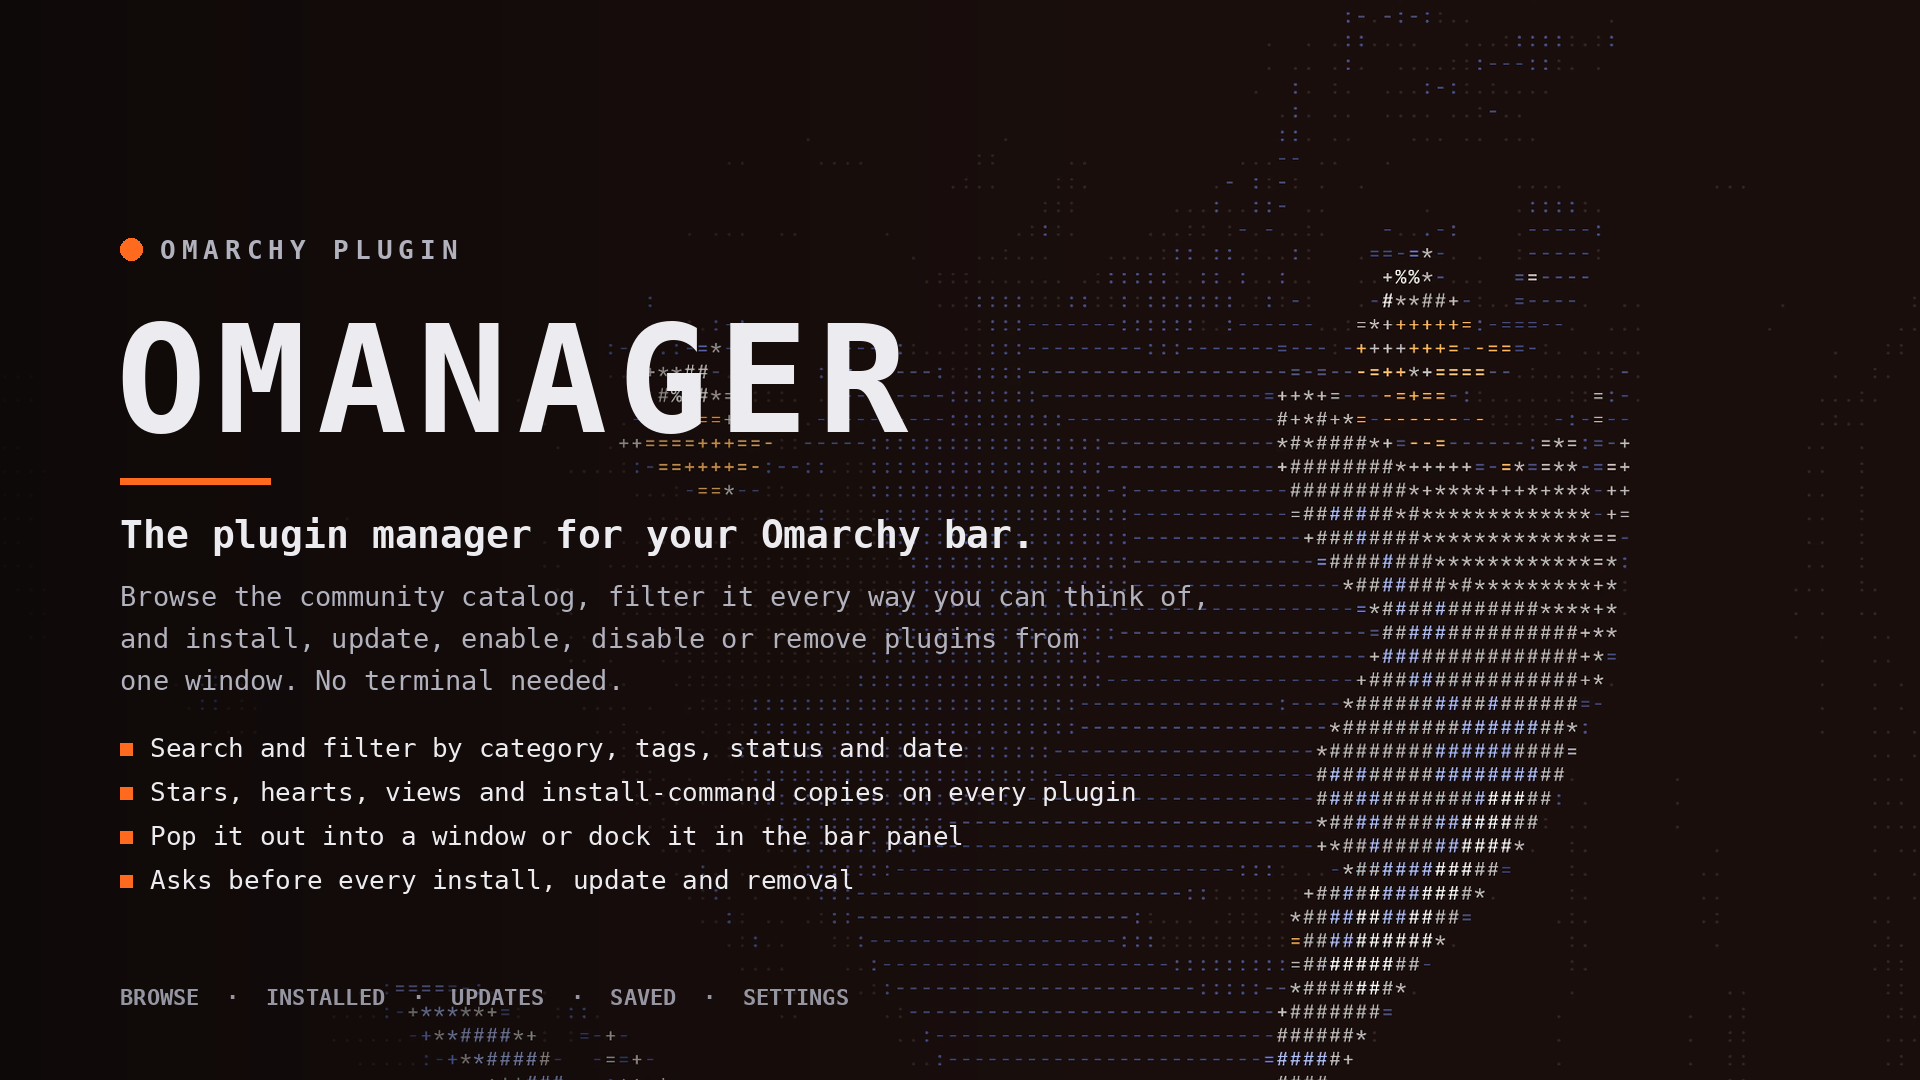
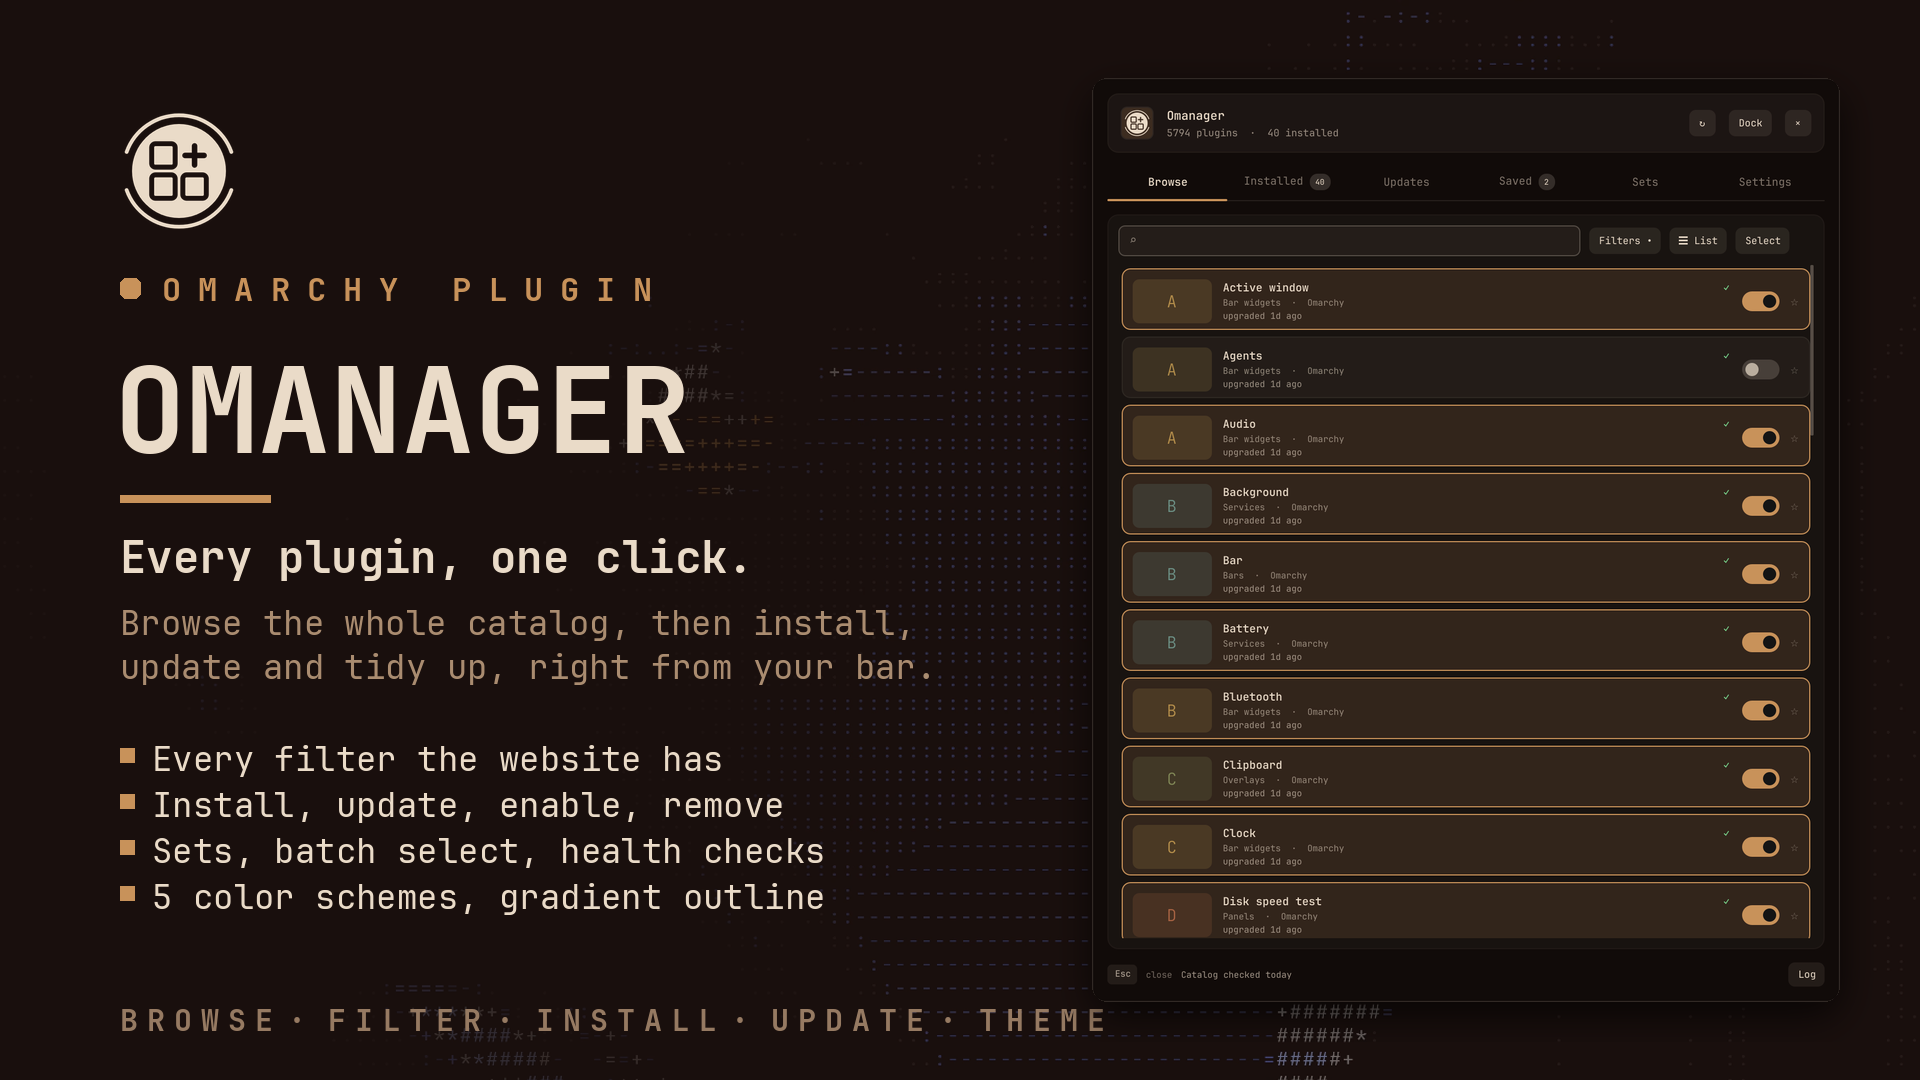
docs: rewrite the README with a new preview and screenshots

diff --git a/README.md b/README.md
@@ -1,225 +1,175 @@
-# Omanager
+<p align="center">
+  <picture>
+    <source media="(prefers-color-scheme: light)" srcset="assets/logo-dark.png">
+    <img src="assets/logo.png" alt="Omanager logo" width="112">
+  </picture>
+</p>
 
-A plugin manager for the Omarchy bar. Click the bar button and a panel opens; click it again and it closes. Browse the community catalog, filter it every way you can think of, and install, update, enable, disable, or remove plugins without touching a terminal.
+<h1 align="center">Omanager</h1>
 
-![Omanager preview](preview.png)
+<p align="center">A plugin manager on your Omarchy bar: browse the whole catalog, then install, update, enable, disable or remove plugins without opening a terminal.</p>
 
-## Features
+![Omanager](preview.png)
 
-- **Tabs**: Browse, Installed, Updates (with *Update all*), Saved, Sets, Settings.
-- **Stats**: stars, hearts, views, and install-command copies show on every card, list row, and compact row, and in the detail / stage pane.
-- **Sort**:
-  - newly uploaded
-  - **as listed** (the exact order the catalog feed returns them in — matches the website's default view)
-  - recently upgraded
-  - **new or upgraded** (whichever is most recent)
-  - most hearts
-  - stars
-  - views
-  - best install rate
-  - A to Z
-  - **newly installed** (Installed tab only: the moment each plugin landed on disk, newest first)
+Click the bar button and the manager opens; click it again and it closes. It holds the full community catalog, with the same filters as the website, the plugins you have installed and the updates waiting for them, and it can pop out into a window of its own.
 
-  The Installed tab's sort list also offers **Newly installed**, which reads each plugin directory's birth time (falling back to its modification time on filesystems that don't record one). Everything else is offered there too.
-- **Health** (Installed tab): flags installed plugins that need attention and adds a **Needs attention** status to filter the list to them:
-  - installed in a folder whose name differs from its id
-  - not a git checkout, so `omarchy plugin update` cannot touch it
-  - not in the catalog (local or unpublished)
-  - a plugin directory with no readable `manifest.json`
-  The detail pane shows the exact problem and an **Open folder** button. Updates and removals always run against the real folder name, so a plugin in a differently named folder still updates and removes correctly.
-- **Changelog**: the detail pane lists an installed plugin's recent commits (`git log`, read-only). When an update is pending, **Incoming** fetches and shows exactly what the update would bring in, so you can see the changes before you update.
-- **Right-click a plugin** for a short menu of what applies to it (update/install, enable/disable, save, open folder or repository, copy install command, details, remove).
-- **Batch select**: **Select** turns cards into checkboxes and shows an action bar to **Update / Enable / Disable / Save / Remove** everything picked at once (only the applicable ones act). Removals still ask to confirm.
-- **Plugin sets** (Sets tab): name a snapshot of what you have installed, then **Restore** it later to re-enable what is off and reinstall what is missing (using the plugin's repo, so it works on a fresh machine). Nothing already present is removed or downgraded, so restoring is always safe.
-- **Filters**:
-  - community / built-in / all
-  - category
-  - tags (several at once)
-  - verified only
-  - hide installed
-  - status (installed, not installed, has update, saved, new since your last visit)
-  - time window (week, month, 3 months, year) that looks at uploads, upgrades, or either
-
-  The **Uploaded / Upgraded / Either** chips are dimmed until a time window is chosen because they only apply to it.
-
-- **Search** across names, IDs, authors, categories, tags, and descriptions.
-- **Pop out / dock**:
-  - The header's *Pop out* button turns the manager into a real window you can move, resize, and tile.
-  - *Dock* puts it back into the bar panel.
-  - Filters, selection, and search survive the switch.
-  - The dock and the pop-out are the same panel, so they look identical.
-  - In a narrow window the filters open from a *Filters* button; from about 720 px wide the sidebar is shown.
-  - **Settings > Window > Open as** picks which one the bar button opens first.
-- **Layouts**:
-  - *List* — default: compact row cards. Installed plugins have an on/off switch.
-  - *List + stage* — wide windows only (about 720 px and up): the list on the left, a large preview with actions for the selected plugin on the right.
-  - *Cards* — 1 to 4 columns or automatic.
-  - *Compact* — a dense, table-like view with one plugin per row: name, category, author, stats, status, upload age, and install button.
-
-  Previews come from the catalog's own thumbnails and full-size images. Compact skips them entirely, so it stays fast on large catalogs.
-
-  Cycle with the header's layout button, or pick one in **Settings > Window > Layout**.
-
-- **Colors**:
-  - follow the bar theme
-  - your own accent color
-  - monochrome
-  - a different tint per category
-
-  Plus card style, spacing, roundness, text size, and window tint.
-
-- **36 settings**, grouped into:
-  - Appearance
-  - Window
-  - Browse
-  - Catalog
-  - Safety
-  - Bar
-
-  Settings are searchable, written in plain language, and have a reset arrow for anything you changed.
-
-- **Safety**:
-  - confirmation before install / update / remove
-  - optional block on unverified plugins
-  - commands run as argument lists (never through a shell)
-  - repository addresses must be plain HTTPS GitHub / GitLab / Codeberg repositories
-
-- **Offline support**: works offline from a cached catalog and keeps bookmarks and your last visit.
-- **Fast refresh**: the catalog is requested compressed and conditionally, so an unchanged catalog is a tiny `304` instead of a multi-megabyte download. Hearts, views, and copies come from the marketplace's separate stats API.
-
-## Install
+## Getting it
 
 ```bash
 omarchy plugin add https://github.com/qempexe/omarchy-omanager.git --enable
+omarchy restart shell
 ```
 
-Or from a local copy:
+Then place it from the bar settings, or move it with `omarchy bar move io.github.qempexe.omanager --section right` (or `left`, `center`). A right click on the button opens straight to Settings.
 
-```bash
-mkdir -p ~/.config/omarchy/plugins/io.github.qempexe.omanager
-cp -r ./. ~/.config/omarchy/plugins/io.github.qempexe.omanager/
-omarchy plugin validate ~/.config/omarchy/plugins/io.github.qempexe.omanager
-omarchy plugin enable io.github.qempexe.omanager --section right
-```
+It needs `curl` and `jq`, which Omarchy already has. Copying an install command and pasting into a text field go through `wl-clipboard` (`wl-copy`, `wl-paste`).
 
-Requires `curl` (catalog download). `wl-clipboard` is needed on Wayland: `wl-copy` for "Copy install command" and `wl-paste` for pasting into text fields (read at most 1 KB, for at most 2 seconds, and only when you press Ctrl+V or Shift+Insert).
+## Browsing
 
-### Floating the Pop-out Window (Hyprland)
+Five tabs: **Browse**, **Installed**, **Updates** (with *Update all*), **Saved** and **Sets**, plus **Settings**.
 
-Hyprland tiles new windows. To make the popped-out manager float and center, match its title (a Quickshell toplevel always has the class `org.quickshell`).
+![Browse, as cards](screenshots/cards.png)
 
-In `~/.config/hypr/hyprland.lua`, following the style Omarchy uses:
+Four layouts: *List*, *List + stage* (a big preview of the selected plugin beside the list, from about 720 px wide), *Cards* in one to four columns, and *Compact*, a dense table of the whole catalog. The header's layout button cycles through them.
+
+Every card shows the plugin's stars, hearts, views and install-command copies. Previews are downloaded once into a local cache and shown from there.
+
+## Filters
+
+![Filters](screenshots/filters.png)
+
+The same filters as [plugins.omarchy.org](https://plugins.omarchy.org), and a few more:
+
+- **Show**: community, built-in, or all.
+- **Sort by**: newly uploaded, as listed, recently upgraded, new or upgraded, most hearts, most stars, most viewed, most copied, top ranked, best install rate, A to Z, plugin type. The Installed tab can also sort by **newly installed**.
+- **Verification**: any, verified or unverified.
+- **Collections**: Kids, VPN, Bar, AI, Games and Security, worked out the way the website does it.
+- **Category** and **tags**, several tags at once, with counts.
+- **Status**: installed, not installed, has an update, saved, or new since your last visit.
+- **Time**: uploaded, upgraded or either, within the last week, month, 3 months or year.
+- **Search** names, ids, authors, categories, tags and descriptions, and narrow it like on the website with `tag:media`, `kind:panel` or `@author`.
+
+## Installed plugins
+
+![Installed](screenshots/installed.png)
+
+Installed plugins get an on/off switch, and an *Update* button when the catalog has a newer version. **Health** flags the ones that need a look: in a folder named differently from their id, not a git checkout, missing from the catalog, or without a manifest. Updates and removals always use the plugin's real folder.
+
+The details show an installed plugin's recent commits, and with an update waiting, **Incoming** lists exactly what it would bring in.
+
+![Details](screenshots/details.png)
+
+Right click any plugin for what applies to it. **Select** turns the list into checkboxes, with one bar to update, enable, disable, save or remove everything picked. **Sets** keeps a named snapshot of what you have installed, and restores it later or on another machine; restoring only enables and installs, it never removes anything.
+
+## Colors
+
+![Color schemes](screenshots/colors.png)
+
+Five schemes: **Follow theme** matches your Omarchy theme live, **Theme palette** gives every category its own color from the theme, **Window borders** takes the colors of your active window border, **Custom** uses your own background, text and accent, and **Monochrome** removes every hue. Text can stay always readable, follow the theme, or use your own color.
+
+The window can have an outline in your window border's gradient, at the border's own angle, or in one of its colors, a tint of the accent, and any opacity.
+
+## The settings
+
+![Settings](screenshots/settings.png)
+
+Eight tabs: **Colors**, **Appearance**, **Window**, **Browse**, **Catalog**, **Safety**, **Bar** and **About**. The search box at the top searches every setting at once, and every changed row has its own arrow back to the default. Everything applies at once and is saved to `~/.local/state/omarchy-omanager/settings.json`.
+
+<table>
+<tr>
+<td><img src="screenshots/settings-colors.png" alt="Colors"></td>
+<td><img src="screenshots/settings-appearance.png" alt="Appearance"></td>
+<td><img src="screenshots/settings-window.png" alt="Window"></td>
+<td><img src="screenshots/settings-browse.png" alt="Browse"></td>
+</tr>
+<tr>
+<td><img src="screenshots/settings-catalog.png" alt="Catalog"></td>
+<td><img src="screenshots/settings-safety.png" alt="Safety"></td>
+<td><img src="screenshots/settings-bar.png" alt="Bar"></td>
+<td><img src="screenshots/settings-about.png" alt="About"></td>
+</tr>
+</table>
+
+## Pop out and dock
+
+The header's **Pop out** turns the manager into a real window you can move, resize and tile, and **Dock** puts it back on the bar. Filters, selection and search survive the switch. **Settings › Window › Open as** picks which one the bar button opens.
+
+Hyprland tiles new windows. To float and center the popped-out manager, add to `~/.config/hypr/hyprland.lua`:
 
 ```lua
 o.window({ class = "^org\\.quickshell$", title = "^Omanager$" }, { tag = "+omanager-window" })
 o.window({ tag = "omanager-window" }, { float = true })
 o.window({ tag = "omanager-window" }, { center = true })
-o.window({ tag = "omanager-window" }, { size = { 460, 620 } })
+o.window({ tag = "omanager-window" }, { size = { 560, 680 } })
 ```
 
-Without rules it still works; it just tiles like any other window.
-
-## Settings
-
-Everything is in the window's **Settings** tab (or by right-clicking the bar button).
-
-Each change is applied instantly and saved locally, in `settings.json` in your state folder (`~/.local/state/omarchy-omanager/`). Omanager does not run `omarchy bar set`, so Omarchy's own settings screen shows the defaults, not your values. Editing `settings.json` by hand takes effect after a shell restart. Settings persist across shell restarts, logouts and reboots: the file is read once at startup and merged under anything you change in the meantime.
-
-A few settings behave differently in some situations:
-
-- **Open as** is read each time you click the bar button, until you use Pop out or Dock in the current session.
-- **Window width and height** are locked (dimmed) while the manager is popped out, because the window manager sizes that window. They apply again after you dock it.
-- **Start on, Sort by, the recency filter, Verified only and Hide installed** update the Browse filters when you change them. A filter you have set yourself is left alone.
-
-The list lives in `tools/gen.py`. Each choice can say how it is drawn with `control="tiles"`, `"seg"` or `"chips"`. Edit it, run:
+## From the command line
 
 ```bash
-python3 tools/gen.py
-```
-
-Then `manifest.json`, `Schema.js`, and the settings block of `BarWidget.qml` are regenerated together.
-
-## Shell Commands
-
-```bash
-omarchy-shell shell summon io.github.qempexe.omanager   # open the window
+omarchy-shell shell summon io.github.qempexe.omanager   # open the manager
 omarchy-shell shell hide io.github.qempexe.omanager     # close it
-omarchy-shell io.github.qempexe.omanager refresh        # re-download the catalog
-omarchy-shell io.github.qempexe.omanager status         # JSON: catalog, updates, activity
+omarchy-shell io.github.qempexe.omanager refresh        # download the catalog again
+omarchy-shell io.github.qempexe.omanager status         # catalog, updates and activity, as JSON
 ```
 
-## How It Works
+## Good to know
 
-```text
-Service.qml    catalog download + cache, `omarchy plugin list --json`, action queue
-Model.js       normalising, filtering, sorting, URL/command safety (unit-tested)
-BarWidget.qml  bar button, settings, owns UiState, decides panel vs window
-UiState.qml    all window state (filters, selection, theme helpers, results)
-ManagerView    the whole UI; shown by Panel.qml (docked popup) or PopoutWindow.qml
-ResultsView    the scrolling grid / list / compact table + empty states
-PluginCard     one plugin in card, list, or compact form
-Sw             the on/off switch
-SettingsView   the Settings tab body: group tabs and the settings
-SettingRow     one setting: tiles, segmented bar, chips, slider, switch, field
-TileArt        the little pictures inside the settings tiles
-PasteInput     the text field (a plain Text, never a TextInput)
+- Plugins run as unsandboxed code in your shell. Omanager asks before it installs, updates or removes anything, and can refuse unverified plugins (**Settings › Safety**).
+- Installs, updates and removals run through `omarchy plugin`, one at a time.
+- What it talks to: `plugins.omarchy.org` for the catalog and the previews, `api.omarchyplugins.com` for hearts, views and copies, and a plugin's own repository when you look at incoming changes.
+- The catalog is fetched compressed and only when it changed, so an unchanged catalog costs a tiny request. Without a connection Omanager works from the saved copy.
+- Text fields read at most 1 KB from the clipboard, only on Ctrl+V or Shift+Insert.
+
+## Inside
+
+```
+qml/
+├── Service.qml          catalog, installed plugins, the action queue, preview cache, theme colors
+├── BarWidget.qml        the bar button; owns the window state and opens the panel or the window
+├── browse/              PluginCard, ResultsView, DetailPane, FilterSidebar, ContextMenu, SetsView
+├── panel/               Panel, PopoutWindow, ManagerView, SettingsView, SettingRow, TileArt, AboutPage
+├── core/                UiState (filters, results, colors), SettingsStore, Run (helper commands)
+├── controls/            Txt, Btn, Chip, Sw, Section, PasteInput
+└── js/
+    ├── Model.js         catalog parsing, filters, sorts, search, commands (unit-tested)
+    ├── Schema.js        every setting (generated by tools/gen.py)
+    └── Theme.js         the theme's palette and window border
+assets/                  the logo, light and dark
+tools/gen.py             the settings list: writes manifest.json, Schema.js and BarWidget's settings
+tests/                   node tests/test_model.js · node tests/test_theme.js · python3 tests/test_manifest.py
+                         python3 tests/test_no_native_text.py · python3 tests/test_helpers.py
 ```
 
-## Tests
+To add or change a setting, edit `tools/gen.py` and run `python3 tools/gen.py`.
+
+## Updating and removing
 
 ```bash
-node tests/test_model.js        # catalog parsing, filters, sorts, command safety
-python3 tests/test_manifest.py  # manifest / Schema.js / QML drift, plain-text rule
-python3 tests/test_no_native_text.py  # no TextInput anywhere, paste read stays capped
+omarchy plugin update io.github.qempexe.omanager
+omarchy restart shell
+```
+
+```bash
+omarchy plugin remove io.github.qempexe.omanager
+rm -rf ~/.local/state/omarchy-omanager     # settings, saved plugins, sets, the cached catalog
+rm -rf ~/.cache/omarchy-omanager           # cached previews
 ```
 
 ## Changelog
 
 See [CHANGELOG.md](CHANGELOG.md).
 
-## Status
+## Credits and thanks
 
-The logic in `Model.js` and the manifest/QML consistency are covered by the tests.
+- Thanks to [@TowhidMolla-Dev](https://github.com/TowhidMolla-Dev) for plugin sets, batch select, the right-click menu, the changelog in the details and Health.
+- Thanks to the **Omarchy** project and the plugin marketplace maintainers for the shell, the catalog and the stats it runs on.
+- Thanks to **Quickshell** and **Qt** for the toolkit.
+- Thanks to everyone who tests it and reports issues.
 
-The bar widget has been loaded in a live shell; the 1.5.0 popup (`Panel.qml`), the pop-out, and the layouts have not been run there yet.
+## Disclaimer
 
-Things that are inferred rather than confirmed:
-
-- **Catalog fields**: previews use `previewThumbnail` / `previewImage`, and the listing date reads `listedAt` first (falling back to `addedAt`, `createdAt`, and several other spellings) so the "Newly uploaded" order matches the website.
-- **Last upgraded date**: reads `repositoryUpdatedAt` first, then several other spellings. If "Upgraded" shows "unknown" or looks wrong, adjust the alias list in `normalizePlugin`.
-- **Stats API response shape**: `api.omarchyplugins.com/v1/stats` accepts several shapes. If none matches, hearts / views simply stay empty.
-- **Installed versions**: `omarchy plugin list --json` reports no version at all, so the Updates tab reads each plugin's `manifest.json` under `~/.config/omarchy/plugins/*/` with `jq` (an omarchy dependency, run through `find -exec`). Without `jq` the scan comes back empty, no updates are shown, and the activity log says why.
-- **Install time**: not in the manifest either, so the Installed tab's **Newly installed** sort takes each plugin directory's birth time from `stat` (`%W`, falling back to mtime `%Y` on filesystems that don't record birth time). Directories with no readable time sort last.
-- **Update/remove by folder**: `omarchy plugin update` and `omarchy plugin remove` resolve `~/.config/omarchy/plugins/<name>`, where `<name>` is the folder, not the manifest id. A plugin installed in a folder named differently from its id (a manual clone) is updated and removed by its folder name; enable/disable still use the id.
-- **`FloatingWindow`**: the pop-out comes from Quickshell. It is used by other Omarchy plugins but has not been run here.
-- **CLI flags**: the `--yes` flags on `plugin add` / `plugin remove` and the `plugin enable|disable|update` subcommands are assumed. Remove retries without `--yes` if the first attempt fails.
-
-Run:
-
-```bash
-omarchy plugin validate .
-qs log -p "$OMARCHY_PATH/shell" --tail 100
-```
-
-first if something looks off.
-
-### If Clicking the Bar Button Shows Nothing
-
-The button now logs why and never silently does nothing.
-
-If the bar panel fails to load or does not open within about half a second, the manager opens as its own window instead.
-
-Look in `qs log` for lines starting with `Omanager:`:
-
-```text
-Omanager: Panel.qml failed to load
-Omanager: the panel did not open
-```
-
-Panel sizing no longer depends on the shell's `Style.space` / `fittedContentWidth` helpers existing.
-
-To always use the window, set **Settings > Window > Open as** to **Own window**.
+Omanager is an independent project, not affiliated with or endorsed by Omarchy or the plugin marketplace. Installing a plugin runs its author's code; approval on the marketplace is a listing, not a security review.
 
 ## License
 
-MIT
+[MIT](LICENSE)
